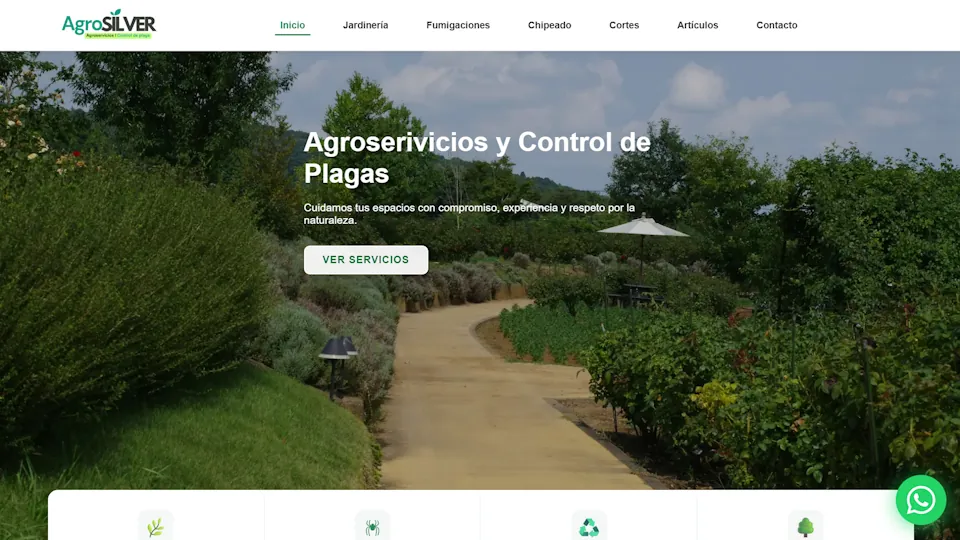
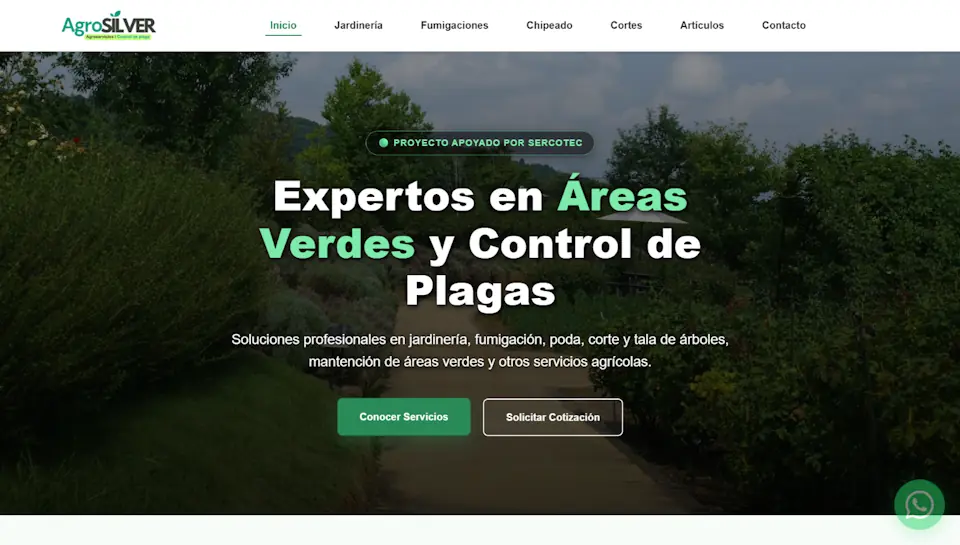
feat: add project detail modal component along with project data and hero images

diff --git a/src/data/projects.ts b/src/data/projects.ts
@@ -19,27 +19,27 @@ export interface ProjectItem {
 
 export const projectsData: ProjectItem[] = [
   {
-    id: "trademaq",
-    title: "TradeMaq",
-    subtitle: "Corretaje Industrial & Maquinaria Pesada",
-    category: "Plataforma Web & Catálogo Dinámico",
-    image: "/trademaq-hero.webp",
-    url: "https://dancing-begonia-f2bffb.netlify.app/",
+    id: "tmquinta",
+    title: "TM Quinta",
+    subtitle: "Transportes, Maquinarias y Movimientos de Tierra",
+    category: "Plataforma Web & Venta de Áridos",
+    image: "/tmquinta-hero.webp",
+    url: "https://tmquinta.cl",
     accentColor: "#00f2ea",
     accentBorderClass: "hover:border-[#00f2ea]/60",
     accentTextClass: "text-[#00f2ea]",
     accentBgClass: "bg-[#00f2ea]/10 border-[#00f2ea]/30 text-[#00f2ea]",
-    shortDesc: "Plataforma de corretaje industrial especializada en maquinaria pesada con catálogo dinámico y cotización directa.",
-    tags: ["Web Premium", "Catálogo Dinámico", "Cotización Directa", "Mobile First"],
-    targetAudience: "Empresas, contratistas, empresas de transporte y proveedores del sector industrial, construcción y minería en Chile que necesitan comprar, vender o tasar maquinaria pesada de forma ágil y confiable.",
-    particularity: "Desarrollo web a medida con arquitectura ultrarrápida, optimizada para cargar inmediatamente en faenas mineras o de construcción con baja cobertura móvil. Dispone de catálogo clasificado por categorías y cotizador en un clic vinculado a WhatsApp.",
+    shortDesc: "Plataforma de servicios de transporte, movimiento de tierras, arriendo de maquinaria, retiro de escombros y venta de áridos en la V Región.",
+    tags: ["Maquinaria Pesada", "Áridos & Maicillo", "Movimiento de Tierras", "Cotización WhatsApp"],
+    targetAudience: "Empresas constructoras, contratistas, parceleros y particulares en toda la Región de Valparaíso (Gran Valparaíso, Marga Marga, Quillota, Aconcagua y San Antonio) que necesitan arriendo de maquinaria pesada, venta de áridos o fletes con respuesta inmediata.",
+    particularity: "Desarrollo web enfocado en la conversión rápida y experiencia móvil para usuarios en obra. Dispone de catálogo de servicios segmentado (retroexcavadora, minicargador, camión 3/4, tolvas 16m³ y despacho de áridos) con cotización One-Click directa a WhatsApp y optimización para búsquedas locales de urgencia.",
     highlights: [
-      "Catálogo dinámico con filtros ágiles por categoría y tipo de equipo",
-      "Cotizaciones instantáneas 'One-Click' enlazadas a ejecutivos vía WhatsApp",
-      "Arquitectura Jamstack de máxima velocidad y seguridad",
-      "Diseño adaptable 100% responsive optimizado para faenas en terreno"
+      "Catálogo completo de maquinaria pesada, fletes y tolvas de 16m³",
+      "Cotización One-Click directa a WhatsApp segmentada por servicio",
+      "Arquitectura ultra rápida adaptada para faenas y obras en terreno",
+      "Estrategia de SEO Local y cobertura en comunas de la V Región"
     ],
-    additionalInfo: "Diseñado para maximizar la tasa de conversión en consultas comerciales de alto valor, eliminando fricciones y facilitando el cierre de negocios."
+    additionalInfo: "Optimizada para transformar visitas y búsquedas locales en conversaciones directas por WhatsApp y llamadas de cotización en tiempo récord."
   },
   {
     id: "rebbel",
